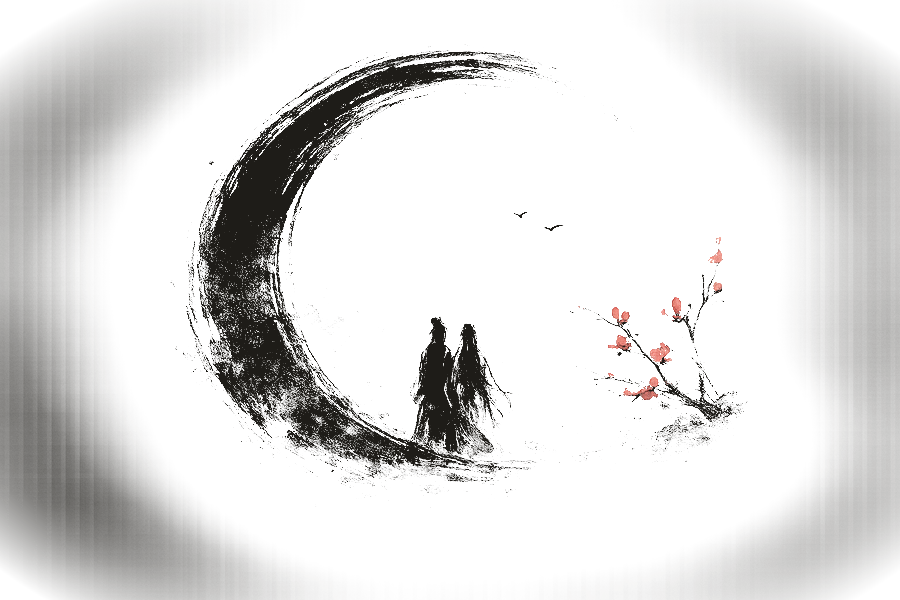
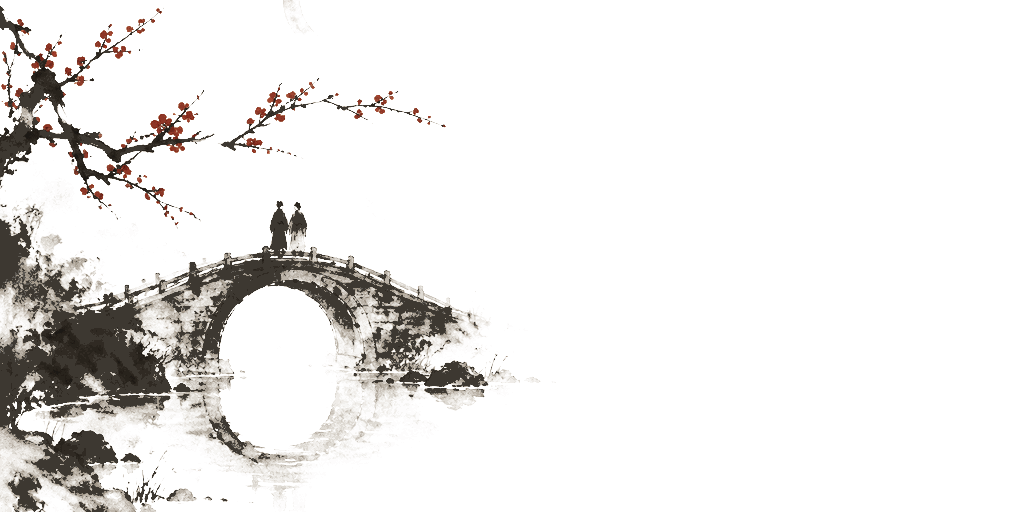
接入 AI 生成的全套水墨素材（17 项）
- gpt-image-2 批量生成 18 张，经亮度转Alpha（朱砂红保护）/居中裁切/
  调色板量化处理后接入（单张 8~85KB）
- 大师头像（圆相老者）自动生效；art-love/liunian 换新
- 新增插画接线：三盘合参/事业/财帛/康健/大运 五张卡配图，
  卜卦铜钱换水墨古钱贴图（正反面），记录空态插画，报告页头图
- favicon/apple-touch-icon 换玄机阁朱印
- 保留原 hero-ink 主视觉（人物版）；新版存 gen 备选未启用

Claude-Session: https://claude.ai/code/session_011AgwQVebsY4aqcmwMsa9gk

diff --git a/src/components/BaziChat.tsx b/src/components/BaziChat.tsx
@@ -398,6 +398,7 @@ export function BaziChat({ resumePid = null }: { resumePid?: string | null }) {
           intro: ['孤证不立。老朽把八字、紫微、卦象三盘并起，对事业、财帛、姻缘、康健逐一互证——三盘同断者十拿九稳，各执一词者，老朽也给你说分明。'],
           card: (
             <CardMsg title="三盘合参" sub="八字 × 紫微 × 卦象 · 交叉印证">
+              <InkArt name="sanpan" height={110} />
               {aiProse}
               <SanpanCard result={sp} />
               {aiZhupi}
@@ -451,6 +452,7 @@ export function BaziChat({ resumePid = null }: { resumePid?: string | null }) {
           intro: ['来看你今年的事业运势。'],
           card: (
             <CardMsg title="事业五维" sub="由命局十神推得">
+              <InkArt name="career" height={110} />
               {aiProse}
               <Radar data={abilityRadarData(c)} max={100} />
               {!ai && <p className="reading-p" style={{ marginTop: 4 }}>{r.career}</p>}
@@ -462,9 +464,10 @@ export function BaziChat({ resumePid = null }: { resumePid?: string | null }) {
         return {
           intro: ['财帛之事，须看财星与身强身弱相配。'],
           card: ai
-            ? (aiProse ? <CardMsg title="财帛之道">{aiProse}{aiZhupi}</CardMsg> : null)
+            ? (aiProse ? <CardMsg title="财帛之道"><InkArt name="wealth" height={110} />{aiProse}{aiZhupi}</CardMsg> : null)
             : (
               <CardMsg title="财帛之道">
+                <InkArt name="wealth" height={110} />
                 <p className="reading-p">{r.wealth}</p>
               </CardMsg>
             ),
@@ -485,9 +488,10 @@ export function BaziChat({ resumePid = null }: { resumePid?: string | null }) {
         return {
           intro: ['身体是行运的本钱，且听老朽几句提点。'],
           card: ai
-            ? (aiProse ? <CardMsg title="康健养生">{aiProse}{aiZhupi}</CardMsg> : null)
+            ? (aiProse ? <CardMsg title="康健养生"><InkArt name="health" height={110} />{aiProse}{aiZhupi}</CardMsg> : null)
             : (
               <CardMsg title="康健养生">
+                <InkArt name="health" height={110} />
                 <p className="reading-p">{r.health}</p>
               </CardMsg>
             ),
@@ -811,6 +815,7 @@ function DayunCard({ chart, prose = true, extraTop = null, extraBottom = null, a
   const bottomNode = !aiAsk || idx === init ? extraBottom : (aiCache[idx]?.note ? aiZhupiNode(aiCache[idx].note) : null)
   return (
     <CardMsg title="大运排盘" sub="每十年一运 · 岁数为虚岁 · 点节点切换即时解读">
+      <InkArt name="dayun" height={100} />
       {topNode}
       {loadingIdx === idx && <div className="card-loading">老朽正在推算此运…</div>}
       <div className="dayun-strip">

diff --git a/src/index.css b/src/index.css
@@ -1461,6 +1461,15 @@ body {
   .chat-scroll { padding: 12px 12px 20px; }
 }
 
+/* 铜钱贴图 */
+.coin.coin-img {
+  background-size: 118% 118%;
+  background-position: center;
+  background-repeat: no-repeat;
+}
+
+.coin.coin-img span { opacity: 0; }
+
 /* 细盘脚注 */
 .pro-foot {
   margin: 10px 2px 2px;

diff --git a/src/App.tsx b/src/App.tsx
@@ -169,7 +169,10 @@ function RecordsScreen({ onResume }: { onResume: (pid: string) => void }) {
         ))}
       </div>
       {shown.length === 0 && (
-        <div className="records-empty">尚无记录<br />排一次盘、问一次卦，缘分自会留痕</div>
+        <div className="records-empty">
+          <img src="/fx/empty-records.png" alt="" style={{ width: '70%', maxWidth: 300, opacity: 0.9, display: 'block', margin: '0 auto 10px' }} />
+          尚无记录<br />排一次盘、问一次卦，缘分自会留痕
+        </div>
       )}
       {shown.map((r) => (
         <div

diff --git a/src/components/DivineChat.tsx b/src/components/DivineChat.tsx
@@ -157,7 +157,7 @@ function TossCard({ onDone }: { onDone: (lines: CastLine[]) => void }) {
           <EnsoRing size={190} className={tossing ? 'enso-rotate' : ''} stroke={7} />
           <div className="coins-tri">
             {[0, 1, 2].map((i) => (
-              <div key={i} className={`coin ${tossing ? 'tossing' : ''} ${!tossing && !coins[i] ? 'tail' : ''}`} style={{ animationDelay: `${i * 0.1}s` }}>
+              <div key={i} className={`coin coin-img ${tossing ? 'tossing' : ''} ${!tossing && !coins[i] ? 'tail' : ''}`} style={{ animationDelay: `${i * 0.1}s`, backgroundImage: `url(/fx/${!tossing && !coins[i] ? 'coin-back' : 'coin-front'}.png)` }}>
                 <span className="hole" />
                 <span>{tossing ? '' : coins[i] ? '字' : '背'}</span>
               </div>

diff --git a/src/components/ReportView.tsx b/src/components/ReportView.tsx
@@ -42,6 +42,7 @@ export function ReportView({ chart, memories, onClose }: { chart: BaziChart; mem
           <>
             <div ref={ref} style={{ background: '#f6f2e6', padding: '4px 2px' }}>
               <div className="report-head">
+                <img src="/fx/report-header.png" alt="" style={{ width: '100%', marginBottom: 6 }} />
                 <h2>玄机阁 · 命盘报告</h2>
                 <div className="rp-sub">{chart.gender === '男' ? '乾造' : '坤造'} {chart.solarText} ｜ 农历 {chart.lunarText} ｜ 属{chart.animal}</div>
                 {chart.solarCorrection && <div className="rp-sub">真太阳时 {chart.solarCorrection.trueText}（{chart.solarCorrection.city}）</div>}